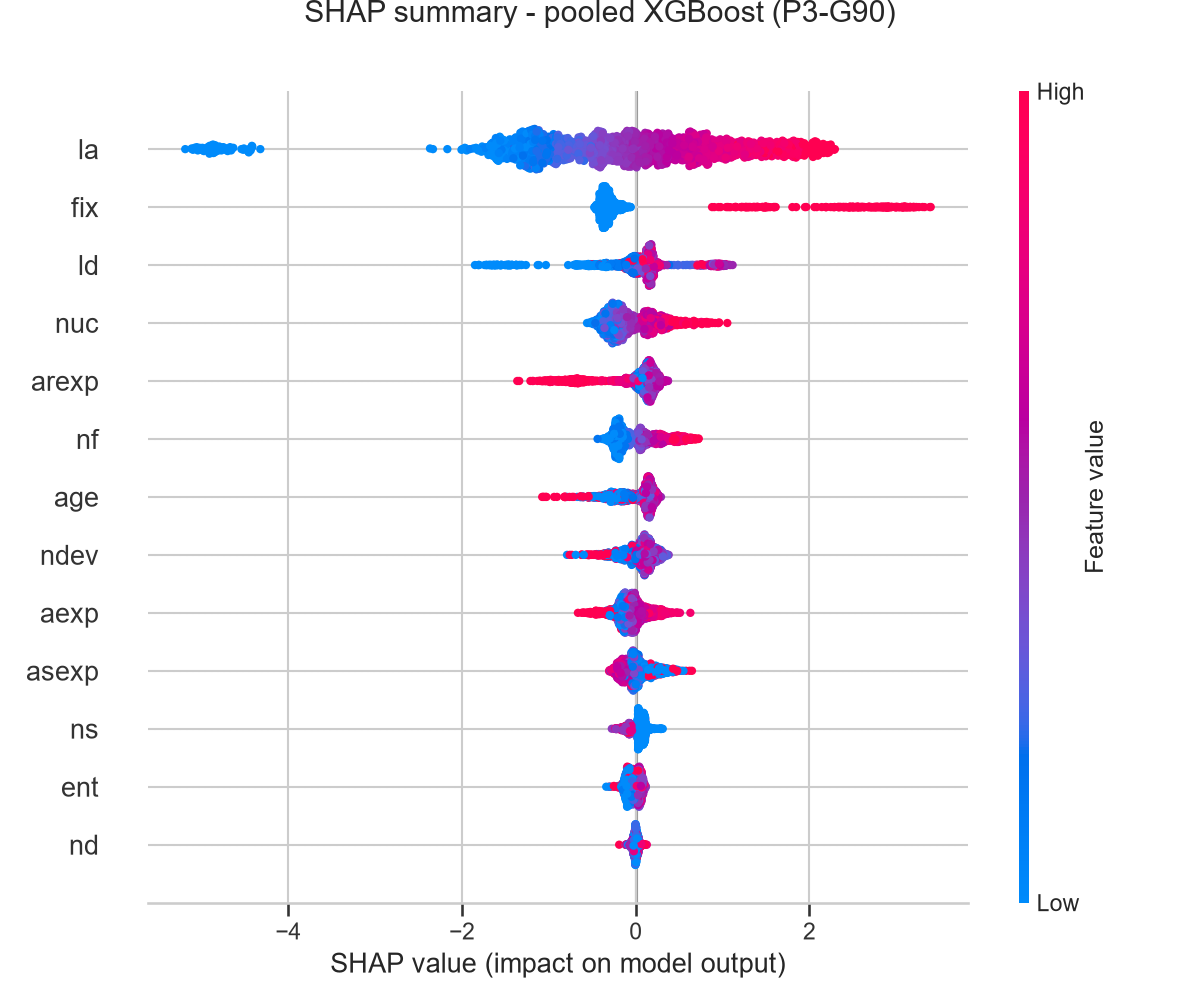
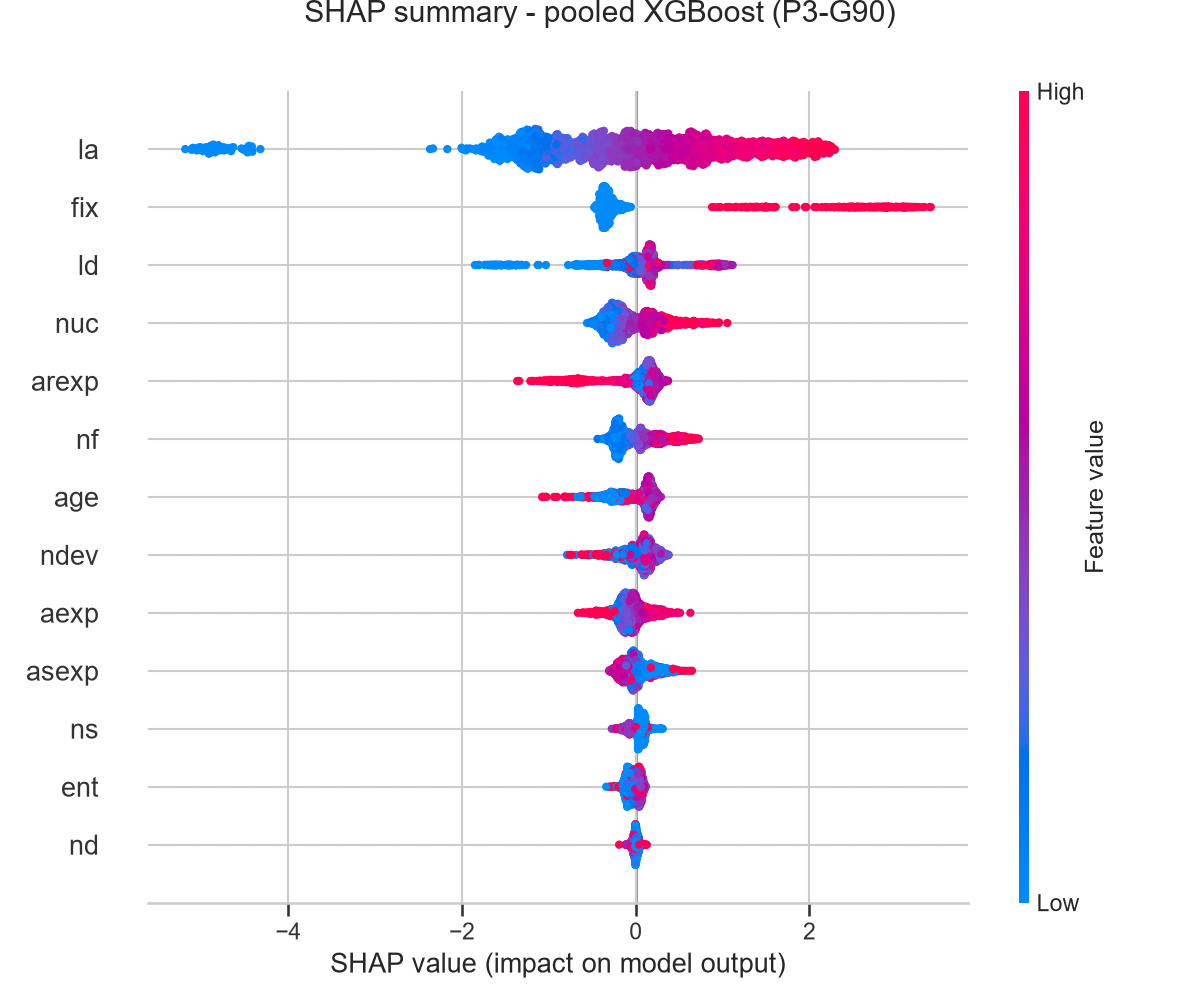
V2

diff --git a/paper/main.tex b/paper/main.tex
@@ -443,7 +443,7 @@ Future work will use repositories with fix timestamps to replace the gap with pe
 % ===========================================================================
 \section*{Declarations}
 
-\paragraph{Data availability.} ApacheJIT is publicly available at \url{https://github.com/hosseinkshvrz/apachejit}. The dataset of \citet{kamei2013} is available in the replication package of \citet{fu2017} at \url{https://github.com/WeiFoo/RevisitUnsupervised}. The complete replication package (code, configuration, raw results, figures, unit tests, and the prototype) will be made available in a public repository upon acceptance \texttt{[repository URL]}.
+\paragraph{Data availability.} ApacheJIT is publicly available at \url{https://github.com/hosseinkshvrz/apachejit}. The dataset of \citet{kamei2013} is available in the replication package of \citet{fu2017} at \url{https://github.com/WeiFoo/RevisitUnsupervised}. The complete replication package (code, configuration, result tables, figures, unit tests, a data-download script, and the prototype) is publicly available at \url{https://github.com/AlaaAlmuaqadimi/realistic-jit-sdp}.
 
 \paragraph{Funding.} The authors did not receive funding for this work.
 

diff --git a/run_all.py b/run_all.py
@@ -97,7 +97,7 @@ def build_report(df, val, excl):
     nwin = windows[windows.setting == "realistic"].groupby("project").window.nunique()
     out = [
         "# Realistic Evaluation of ML-Based Just-in-Time Defect Prediction - Results\n",
-        "*SD566 Artificial Intelligence - Farida Al-Ghariani, Alaa Al-Muqadami. "
+        f"*Dataset: {C.DATASET}. Farida Hisham Ghariani, Alla Khaled Almuqadimi (CCTT, Tripoli). "
         "Generated automatically by `python run_all.py`.*\n",
         "## Executive summary\n",
         f"| Hypothesis | Verdict |\n|---|---|\n| H1 - realistic evaluation lowers PR-AUC and F1 | "

diff --git a/README.md b/README.md
@@ -1,55 +1,80 @@
-# Realistic Evaluation of ML-Based Just-in-Time Defect Prediction
+# Does Just-in-Time Defect Prediction Survive Realistic Evaluation?
 
-Implementation of the SD566 project proposal (Farida Al-Ghariani, Alaa Al-Muqadami).
-It measures how much of the reported performance of standard classifiers survives
-when JIT defect prediction is evaluated realistically: chronological splits, label
-latency, class imbalance and effort-aware metrics, on **ApacheJIT** (106,674 commits).
+Replication package for the paper
+**"Does Just-in-Time Defect Prediction Survive Realistic Evaluation? Time Order, Label Latency, and Review Effort on 321,288 Commits from Two Datasets"**
+by Farida Hisham Ghariani and Alla Khaled Almuqadimi
+(College of Computer Technology (CCTT), Tripoli, Libya).
 
-## Quick start
+The study measures how much of the reported performance of standard JIT defect
+predictors survives realistic evaluation. It covers chronological splits, label
+latency, class imbalance, and effort-aware metrics on **19 projects** from two
+independent datasets:
 
-```powershell
+| Dataset | Projects | Commits | Languages |
+|---|---|---|---|
+| [ApacheJIT](https://github.com/hosseinkshvrz/apachejit) (Keshavarz & Nagappan, MSR 2022) | 13 retained of 15 | 93,871 | Java |
+| Kamei et al. (TSE 2013), via [RevisitUnsupervised](https://github.com/WeiFoo/RevisitUnsupervised) | 6 | 227,417 | C, C++, Perl, Java |
+
+## Key findings
+
+| Hypothesis | ApacheJIT | Kamei | All 19 projects |
+|---|---|---|---|
+| H1: realistic evaluation lowers PR-AUC and F1 | supported (−0.070) | supported (−0.063) | **supported** |
+| H2: class weighting helps; ML beats the unsupervised baseline on Recall@20% effort | not supported | not supported | **not supported**, but risk-per-line ranking beats the baseline in both datasets |
+| H3: top-5 SHAP features stable over time (ρ ≥ 0.7) | 0.60 | 0.71 | **0.64, dataset-dependent** |
+
+## Reproduce
+
+Requires Python ≥ 3.10.
+
+```bash
 pip install -r requirements.txt
-python run_all.py                  # all experiments + report.md (~20 min, 12 cores)
-python run_all.py --analysis-only  # rebuild tables/figures from saved results
-python -m pytest -q                # leakage / protocol / metric tests
-python predict.py --example        # prototype: score held-out commits
+python download_data.py                     # fetch both datasets into data/ and print SHA-256
+python -m pytest -q                         # 12 leakage / protocol / metric tests
+python run_all.py --dataset apachejit       # ~19 min on 12 cores -> results/, report.md
+python run_all.py --dataset kamei           # ~36 min on 12 cores -> results_kamei/, report_kamei.md
+python cross_dataset.py                     # H1-H3 over all 19 projects -> results_combined/
+python predict.py --example                 # prototype (needs a run_all.py run first)
 ```
 
-The dataset is in `data/apachejit_total.csv` (source:
-<https://github.com/hosseinkshvrz/apachejit>, SHA-256 recorded in `report.md`).
+Add `--analysis-only` to `run_all.py` to rebuild tables and figures from saved raw results.
+Expected dataset hashes:
 
-## What is implemented
[2 lines of base64/hex data omitted]
 
-| Proposal item | Where |
+## Method in brief
+
+| Component | Where |
 |---|---|
-| Dataset-readiness gate, validation, exclusion rule | `src/jitsdp/data.py` |
-| Leakage-free preprocessing (log1p, collinearity filter, scaling fitted on train only) | `src/jitsdp/models.py` (`JITPreprocessor`) |
-| P1 random 70/30, P2 chronological 70/30, P3 chronological + latency gap G = 30/90/180 | `src/jitsdp/protocols.py` |
-| Rolling windows (train 12 m, gap 90 d, test 3 m, step 3 m) | `src/jitsdp/protocols.py` |
+| Dataset readiness gate, validation, pre-registered exclusion rule | `src/jitsdp/data.py` |
+| Leakage-free preprocessing (log1p, collinearity filter, scaling fitted on train only) | `src/jitsdp/models.py` |
+| P1 random 70/30 · P2 chronological 70/30 · P3 chronological + latency gap G = 30/90/180 days | `src/jitsdp/protocols.py` |
+| 495 rolling windows (train 12 m → gap 90 d → test 3 m), each paired with a shuffled split of the same commits | `src/jitsdp/protocols.py` |
+| LR, RF, XGBoost + prevalence and inverse-churn baselines; none / class weighting / under-sampling | `src/jitsdp/models.py` |
+| Time-ordered tuning; thresholds selected on validation data only | `src/jitsdp/models.py` |
+| PR-AUC, PR-AUC lift, ROC-AUC, F1, MCC, Brier, Recall@20% effort, Popt (risk and risk-per-line ranking) | `src/jitsdp/metrics.py` |
+| Wilcoxon + Holm, Cliff's δ, Friedman + Nemenyi, bootstrap CIs | `src/jitsdp/stats.py` |
+| SHAP per window and global; ranking stability | `src/jitsdp/experiments.py`, `analysis.py` |
 | Automated leakage checks | `protocols.check_split`, `tests/` |
-| LR, RF, XGBoost + Prevalence and LT (inverse size) baselines | `src/jitsdp/models.py` |
-| Imbalance: none / class weighting / random under-sampling (in-fold only) | `src/jitsdp/models.py` |
-| Time-ordered hyper-parameter tuning; thresholds chosen on validation data | `src/jitsdp/models.py` |
-| Precision, recall, F1, MCC, PR-AUC, ROC-AUC, Recall@20% effort, Popt | `src/jitsdp/metrics.py` |
-| Wilcoxon, Cliff's delta, Friedman + Nemenyi | `src/jitsdp/stats.py` |
-| SHAP (global + per window), LR coefficients, stability (H3) | `src/jitsdp/experiments.py`, `analysis.py` |
-| CLI prototype with Low/Medium/High risk | `predict.py` |
-
-## Improvements beyond the proposal
-
-1. Data audit: `apache/hadoop` has 0 defect-inducing commits (labeling artefact) and is excluded.
-2. Label-maturity check and **PR-AUC lift** (PR-AUC / prevalence) for fair cross-protocol comparison.
-3. **Paired random-vs-realistic windows** on the *same* commits: a stronger test of H1.
-4. Effort-aware supervised ranking (risk per changed line) next to the raw risk ranking.
-5. Calibration (Brier score) and bootstrap confidence intervals.
-6. Three-level prototype thresholds derived from validation data.
 
 ## Layout
 
 ```
-data/            raw dataset
-src/jitsdp/      pipeline package
-results/         CSV tables, raw results, figures/
-models/          prototype model + held-out examples
-report.md        generated results report (H1-H3 verdicts)
+src/jitsdp/          pipeline package
+tests/               unit tests
+run_all.py           per-dataset experiments + report
+cross_dataset.py     combined analysis over both datasets
+download_data.py     fetches the public datasets
+predict.py           command-line prototype (Low / Medium / High risk)
+results*/            result tables and figures per dataset (raw outputs are regenerated)
+report*.md           generated per-dataset reports
+paper/               LaTeX source, bibliography, and figures of the paper
 ```
+
+The datasets are not redistributed here; `download_data.py` fetches them from their
+original sources. Please cite the original dataset papers when using them.
+
+## Citation
+
+If you use this package, please cite the paper (citation details will be added after publication).

diff --git a/report.md b/report.md
@@ -1,6 +1,6 @@
 # Realistic Evaluation of ML-Based Just-in-Time Defect Prediction - Results
 
-*SD566 Artificial Intelligence - Farida Al-Ghariani, Alaa Al-Muqadami. Generated automatically by `python run_all.py`.*
+*Dataset: apachejit. Farida Hisham Ghariani, Alla Khaled Almuqadimi (CCTT, Tripoli). Generated automatically by `python run_all.py`.*
 
 ## Executive summary
 

diff --git a/report_kamei.md b/report_kamei.md
@@ -1,6 +1,6 @@
 # Realistic Evaluation of ML-Based Just-in-Time Defect Prediction - Results
 
-*SD566 Artificial Intelligence - Farida Al-Ghariani, Alaa Al-Muqadami. Generated automatically by `python run_all.py`.*
+*Dataset: kamei. Farida Hisham Ghariani, Alla Khaled Almuqadimi (CCTT, Tripoli). Generated automatically by `python run_all.py`.*
 
 ## Executive summary
 
